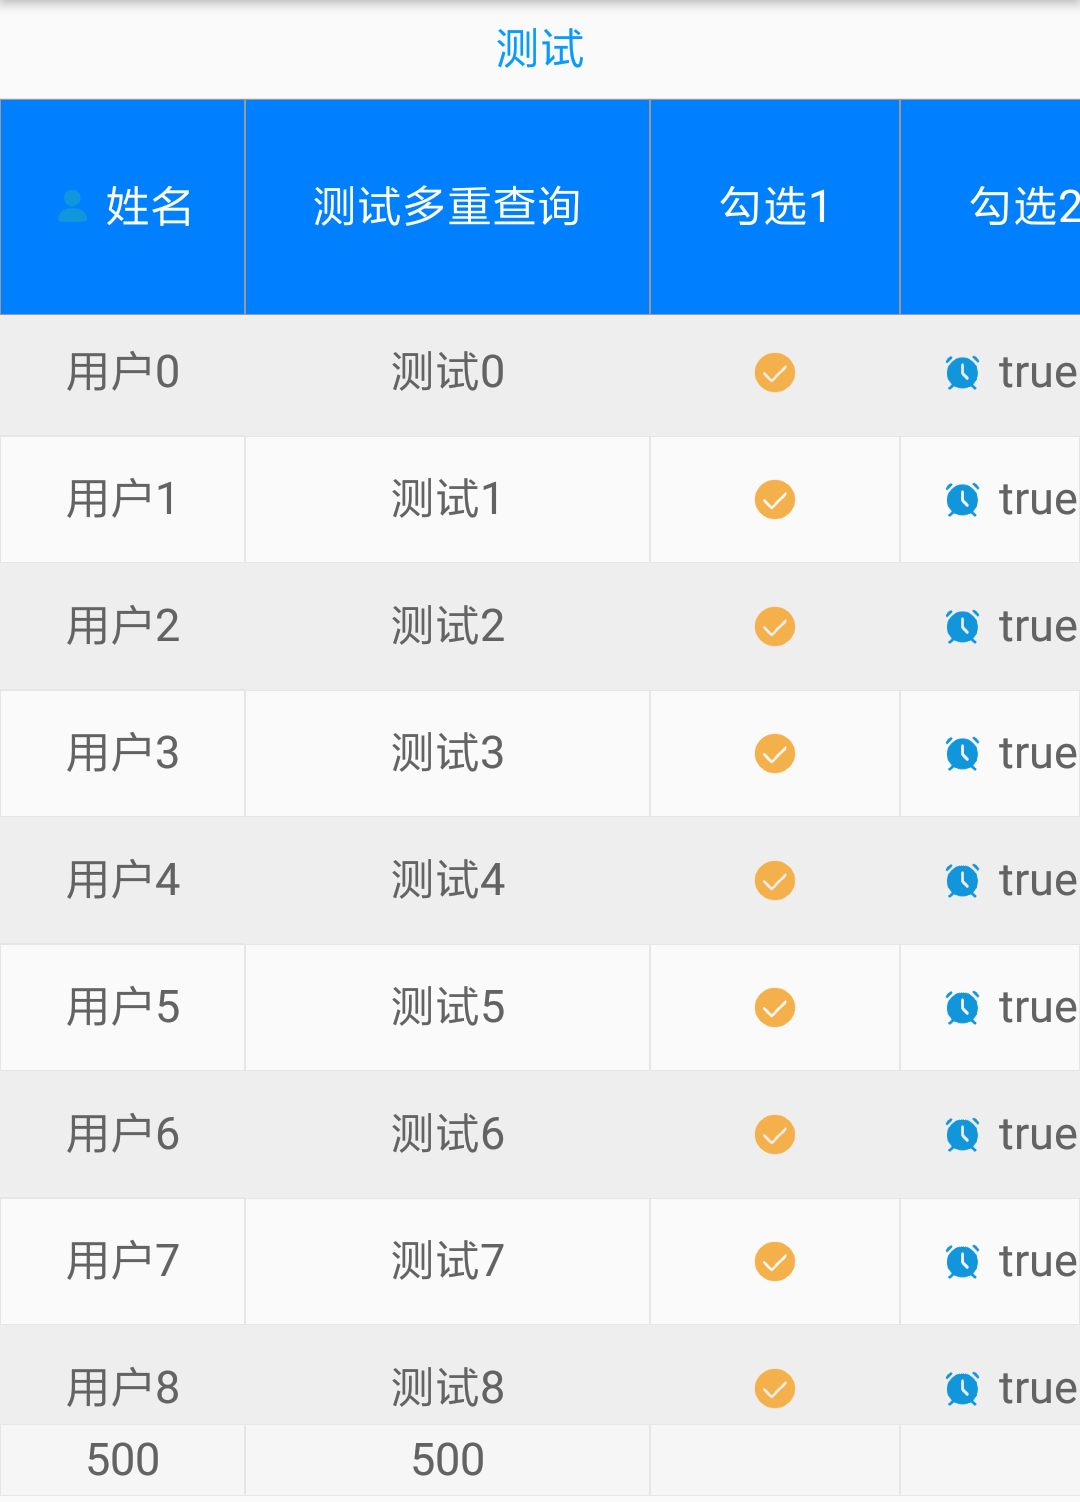
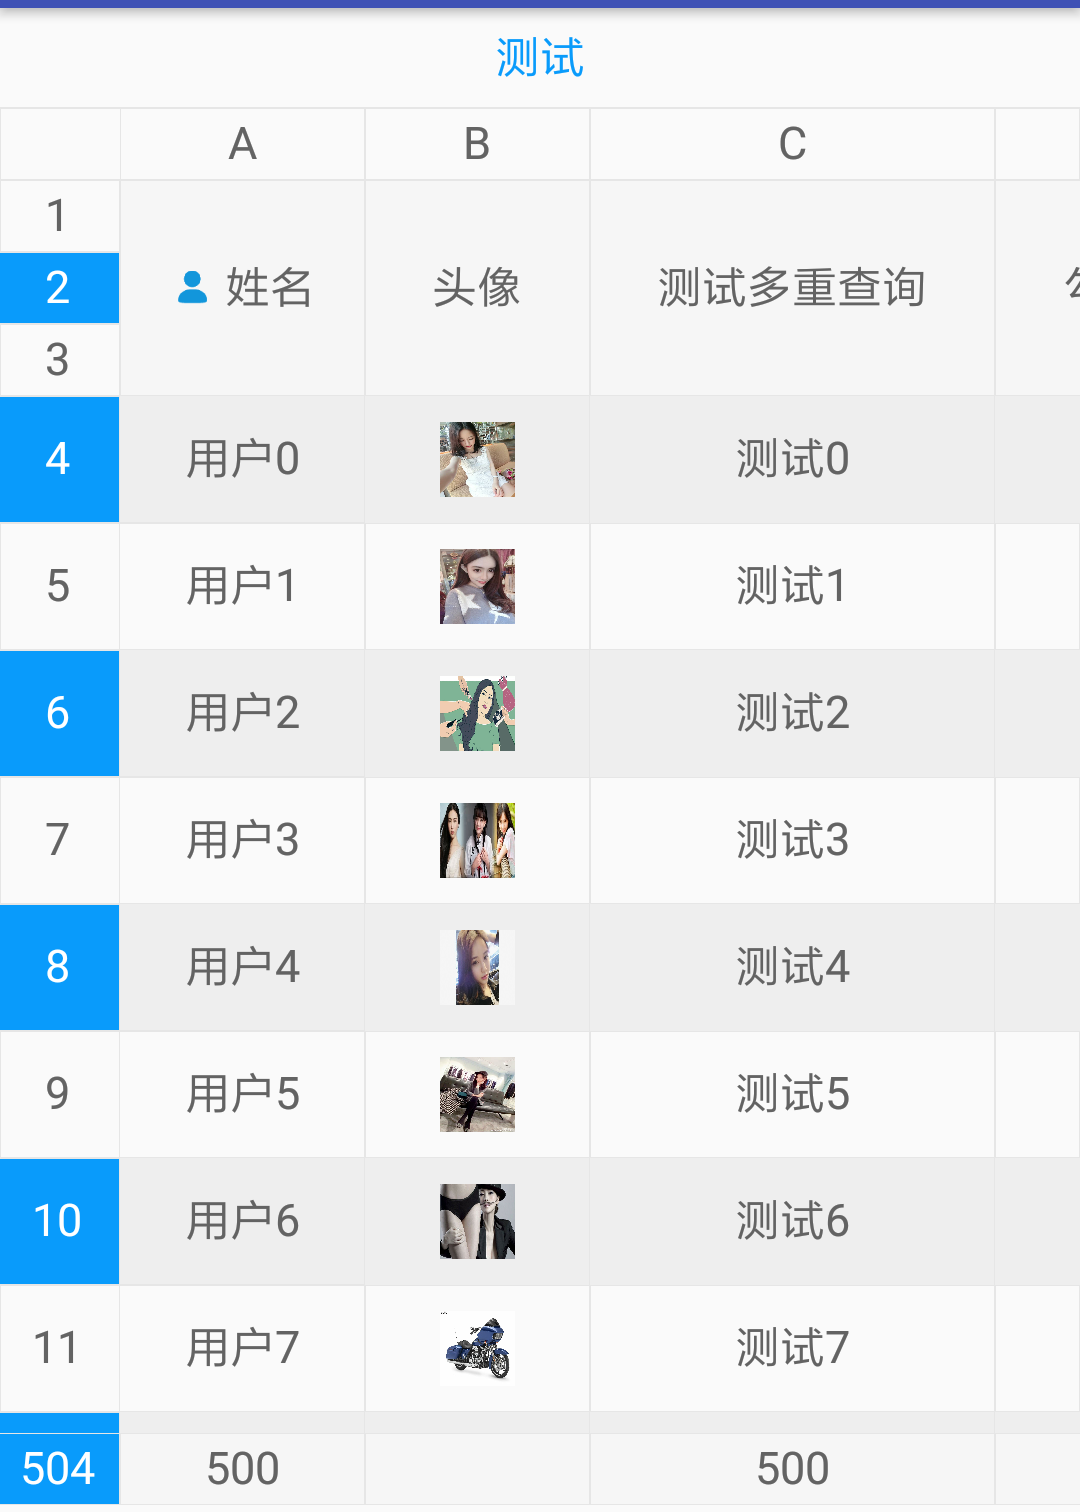
增加1.3版本说明

diff --git a/app/src/main/java/com/bin/david/smarttable/ParseModeActivity.java b/app/src/main/java/com/bin/david/smarttable/ParseModeActivity.java
@@ -323,7 +323,7 @@ public class ParseModeActivity extends AppCompatActivity implements View.OnClick
         IBackgroundFormat<Integer> backgroundFormat2 = new BaseBackgroundFormat<Integer>() {
             @Override
             public int getBackGroundColor() {
-                return ContextCompat.getColor(ParseModeActivity.this,R.color.cal_buckle_text_color);
+                return ContextCompat.getColor(ParseModeActivity.this,R.color.arc1);
             }
             @Override
             public boolean isDraw(Integer integer) {

diff --git a/README.en.md b/README.en.md
@@ -22,6 +22,29 @@
 ![Base function](/img/table.gif)
 
 ![zoom function](/img/zoom.gif)
+
+**- Version 1.3**
+
+Setting a single grid background
+
+In the online reference ```html``` > ```table```, find the pattern pretty much, according to this idea, SmartTable added support for different backgrounds on single grid support, there are 5 ```IBackgroundFormat``` style in ```TableConfig```, according to ```boolean isDraw (T T) to determine whether ` ` ` return data to draw the background of ```drawBackground```, the default of drawing the whole background. Of course, you can define your own ```IBackgroundFormat``` using other shapes.
+
+Setting a single grid font
+
+Due to a single grid support > background support, font color is also need to adjust according to the background, so it supports a single lattice font settings, ```int getTextColor ```IBackgroundFormat``` (T T) ', you only need to rewrite it, according to the needs of different color settings.
+
+Paging
+
+"Too much data on the client experience is not good, so the development of paging mode, without using the annotation case, only need to use the ```PageTableData``` page table data instead of tabular data before the ```TableData``` class, the ```setPageSize``` method uses the ```PageTableData``` settings page number. Paging is done.
+If you use annotations, add the ```pageSize``` attribute to the ```@SmartTable``` annotation element, and the setData will return to the ```PageTableData``` object, and you can use it to complete the rest of the settings.
+
+- others
+
+> SmartTable adds the notifyDataChanged method for re parsing the layout of the calculations;
+
+> provide the back method fling to the origin;
+
+> increase the network request picture display example.
 > How Use
 
 - Quote
@@ -41,7 +64,7 @@ allprojects {
 
 ```gradle
 dependencies {
-	        compile 'com.github.huangyanbin:SmartTable:1.1'
+	        compile 'com.github.huangyanbin:SmartTable:1.3'
 	}
 ```
 

diff --git a/README.md b/README.md
@@ -21,6 +21,34 @@
 ![基本功能](/img/table.gif)
 
 ![缩放功能](/img/zoom.gif)
+
+
+**- 1.3版本**
+
+- 设置单个格子背景
+
+>  在网上参考了```html```的```table```,发现样式好看多了，按到这个思路，SmartTable增加了支持对单个格子的不同背景支持，在```TableConfig```里面有5个```IBackgroundFormat```样式，可以根据```boolean isDraw(T t)```返回数据做出判断是否绘制背景```drawBackground```，默认绘制整个背景，当然你可以自己定义```IBackgroundFormat```使用其他形状。
+
+- 设置单个格子字体
+
+> 由于支持到单个格子背景的支持，字体颜色也需要根据背景还进行调整，所以又支持单个格子的字体设置，```IBackgroundFormat```中有 ```int getTextColor(T t)```,你只需重写它，根据需求设置不同颜色。
+
+- 分页
+
+> 在客户端太多数据体验不好，所以开发分页模式，在未使用注解情况下，只需要使用```PageTableData```分页表格数据类 代替之前```TableData```表格数据类即可，使用```PageTableData```的```setPageSize```方法设置每页数量。分页就完成了。
+如果你使用注解，请在```@SmartTable```注解元素添加```pageSize```属性即可，setData会返回```PageTableData```对象，你可以使用它完成后面其他的设置。
+
+- 其他
+
+> SmartTable 增加notifyDataChanged方法用于重新解析计算布局；
+
+> 提供back方法fling到原点；
+
+> 增加网络请求图片显示例子。
+
+
+
+---
 > 如何使用
 
 - 引用
